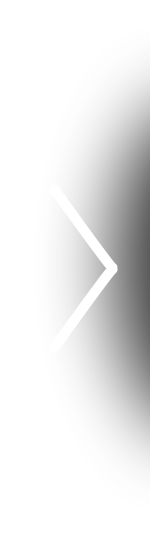
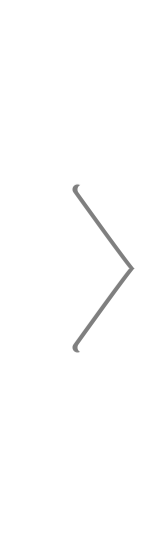
up
up

Changed region(s): [[0.48, 0.1493, 1.0, 0.8657]]

diff --git a/zepher/css/style.css b/zepher/css/style.css
@@ -319,6 +319,10 @@ nav img {
   }
 }
 
+#nav ul {
+    margin-left: -20px;
+}
+
 #top {
   height: 144px;
 }
@@ -733,26 +737,53 @@ nav img {
   flex-direction: row;
 }
 
+
+
+
+/* .arrow_slider { */
+	/* position: absolute; */
+	/* right: 20px; */
+	/* top: 180px; */
+	/* height: 80px; */
+	/* width: 80px; */
+	/* border-radius: 40px; */
+	/* background-color: white; */
+	/* text-align: center; */
+	/* z-index: 99999; */
+	/* box-shadow: 0px 0px 36px #00000070; */
+	
+    /* pointer-events: none; */
+/* } */
+
+/* .arrow_slider img { */
+	/* width: 25px; */
+	/* margin-top: 20px; */
+	/* opacity: 0.5; */
+/* } */
+
+
+
 .arrow_slider {
 	position: absolute;
-	right: 20px;
-	top: 180px;
+	right: 0px;
+	top: 50px;
 	height: 80px;
 	width: 80px;
-	border-radius: 40px;
-	background-color: white;
+	/* border-radius: 40px; */
+	/* background-color: white; */
 	text-align: center;
 	z-index: 99999;
-	box-shadow: 0px 0px 36px #00000070;
+	shadow: 0px 0px 36px #ffffff00;
 	
     pointer-events: none;
 }
 
 .arrow_slider img {
-	width: 25px;
+	width: 100%;
 	margin-top: 20px;
-	opacity: 0.5;
+	/* opacity: 0.5; */
 }
+
 
 
 #child {
@@ -1315,16 +1346,112 @@ nav img {
 
 
 
-@media screen and (max-width: 730px) {
+@media screen and (max-width: 400px) {
+	
+	nav {
+    height: 100px;
+}
+
+.nav_circle {
+    height: 10px;
+    width: 20px;
+}
+	
+	.block {
+		width: 100%;
+		box-sizing: border-box;
+		text-align: center;
+		padding-left: 15px;
+		padding-right: 15px;
+	
+	}
+	
+	.menu {
+    width: 100%;
+    text-align: center;
+    padding-top: 0px;
+	}
+
+	
+	.block a {
+		display: block;
+		margin-right: 0px;
+	}
 	
 	
 	
+	.flex2_art_item {
+		width: 100%;
+		box-sizing: border-box;
+		text-align: center;
+		padding-left: 15px;
+		padding-right: 15px;
+		
+	}
+	
+	
+	
+	.flex_article3 {
+		max-width: 100%;
+		box-sizing: border-box;
+		overflow: hidden;
+	}
+	
+	
+	
+	
+	.flex3_art_item2 {
+		max-width: 100%;
+		/* min-width: auto; */
+		box-sizing: border-box;
+		overflow: hidden;
+		}
+
+
+	.flex3_art_list5 {
+		max-width: 100%;
+		box-sizing: border-box;
+		font-size: 15px;
+		margin: auto;
+	}	
+
+	
+	.flex3_art_list5 p {
+		/* display: block; */
+		width: 50%;
+		box-sizing: border-box;
+	}
+	
+	
+	.flex3_art_list5 img:last-child {
+    /* height: 44px; */
+    /* margin-left: 10px; */
+    /* margin-right: 10px; */
+}
+
+
+
+
+	.flex3_art_list6 {
+		max-width: 100%;
+		box-sizing: border-box;
+		margin: auto;
+		padding: 30px 15px;
+	}
 	
 	
 }
 
 
 
+
+@media screen and (max-width: 360px) {
+	#nav li {
+		font-size: 12px;
+		padding-left: 15px;
+	}
+	
+}
 
 
 

diff --git a/zepher/index.html b/zepher/index.html
@@ -115,33 +115,33 @@
 				<a href="filter_fun.html">
 					<div class="flex3_art_list5 flex3_art_list5_border1">
 						<img src="img/gif3.gif" />
-						<div>Mask filters on Instagram,
-							<br />Facebook and Snapchat</div>
+						<p>Mask filters on Instagram,
+							<br />Facebook and Snapchat</p>
 						<img src="img/min/button-arrow1-min.png" />
 					</div>
 				</a>
 				<a href="filter_tryon.html">
 					<div class="flex3_art_list5 flex3_art_list5_border2">
 						<img src="img/gif2.gif" />
-						<div>Product based filters Instagram,
-							<br />Facebook and Snapchat</div>
+						<p>Product based filters Instagram,
+							<br />Facebook and Snapchat</p>
 						<img src="img/min/button-arrow2-min.png" />
 					</div>
 				</a>
 				<a href="filter_360d.html">
 					<div class="flex3_art_list5 flex3_art_list5_border3">
 						<img src="img/gif1.gif" />
-						<div>
-							<p>Immersive environments built
-								<br />as filters or in an AR application</p>
-						</div>
+						<p>
+							Immersive environments built
+								<br />as filters or in an AR application
+						</p>
 						<img src="img/min/button-arrow3-min.png" />
 					</div>
 				</a>
 				<a href="filter_games.html">
 					<div class="flex3_art_list5 flex3_art_list5_border4">
 						<img src="img/gif4.gif" />
-						<div>AR mini games</div>
+						<p>AR mini games</p>
 						<img src="img/min/button-arrow4-min.png" />
 					</div>
 				</a>
@@ -190,7 +190,7 @@
 			<!-- </div> -->
 			
 			<a href=""><div class="arrow_slider">
-				<img src="img/arrow_slider.svg" />
+				<img src="img/arrow_slider.png" />
 			</div></a>
 
 				<div style="left: 0px; top: 0px;" id="child2" class="flex_article5">
@@ -255,8 +255,13 @@
 		</div>
 		
 			<div id="team-child">
-				<a href=""><div class="arrow_slider2">
-					<img src="img/arrow_slider.svg" />
+				<!-- <a href=""><div class="arrow_slider2"> -->
+					<!-- <img src="img/arrow_slider.svg" /> -->
+				<!-- </div></a> -->
+				
+				
+				<a href=""><div class="arrow_slider">
+					<img src="img/arrow_slider.png" />
 				</div></a>
 
 				<div style="left: 0px; top: 0px;" id="team-child2" class="flex_article6">
